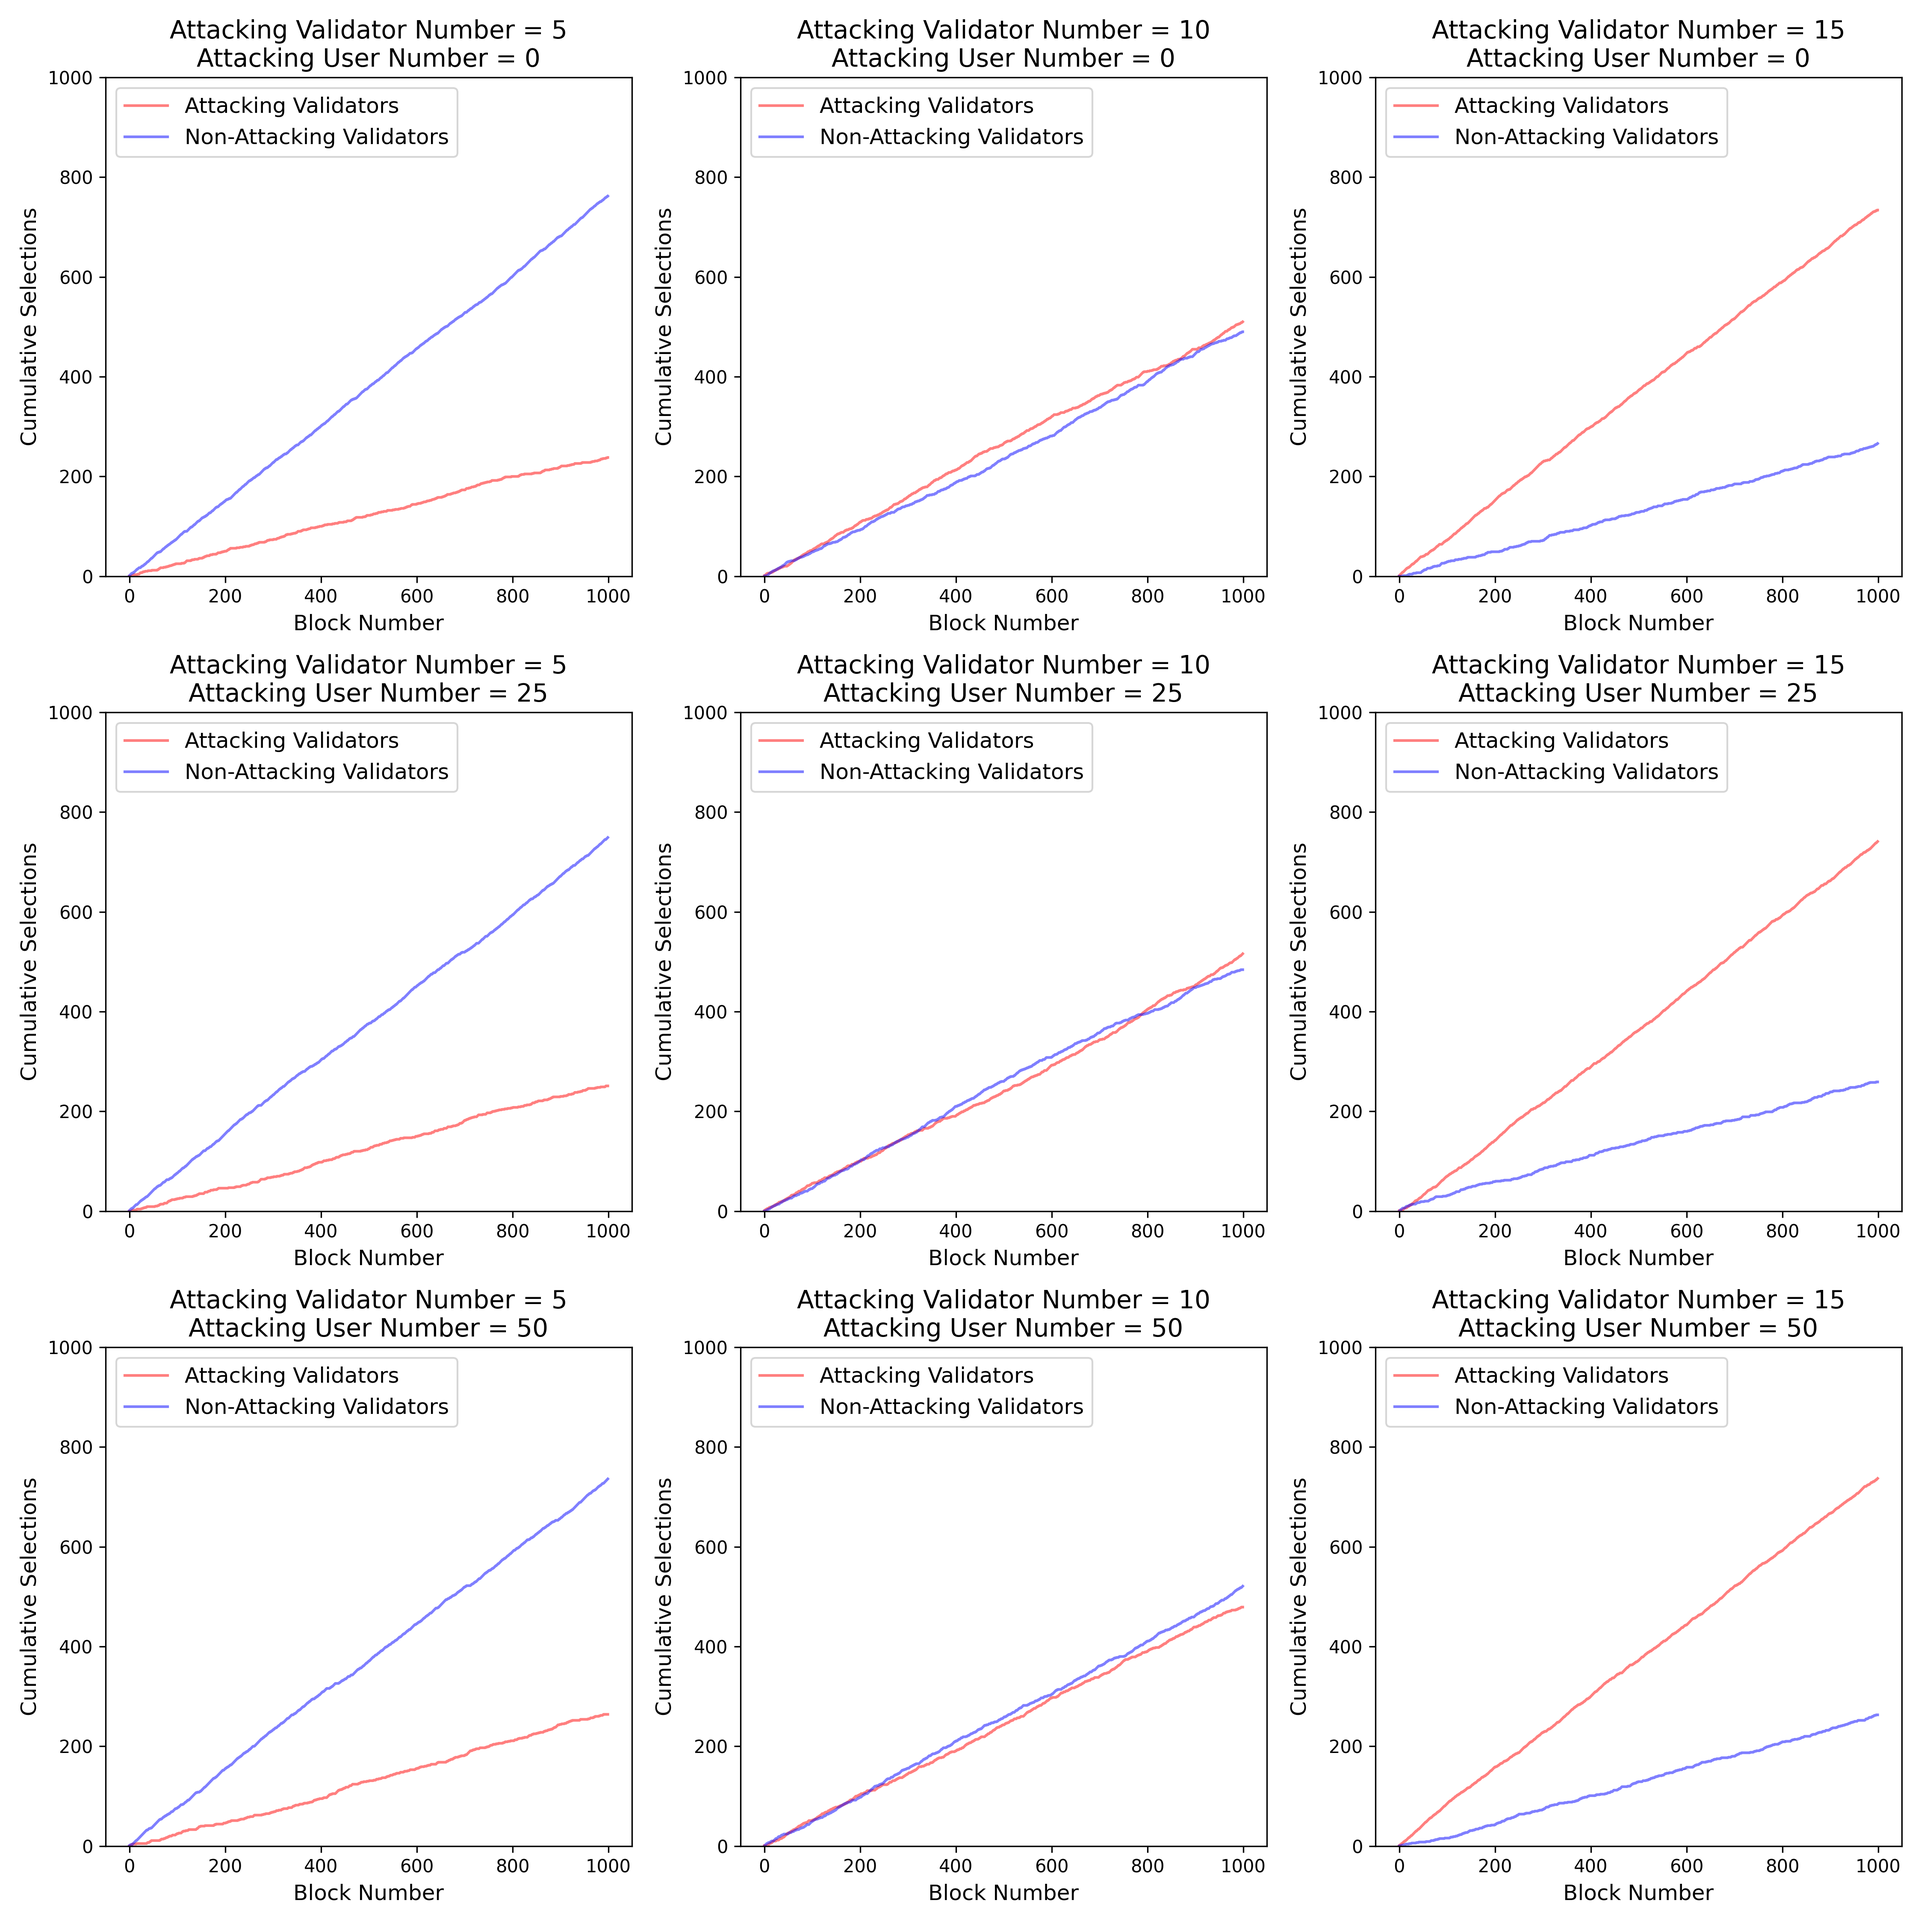
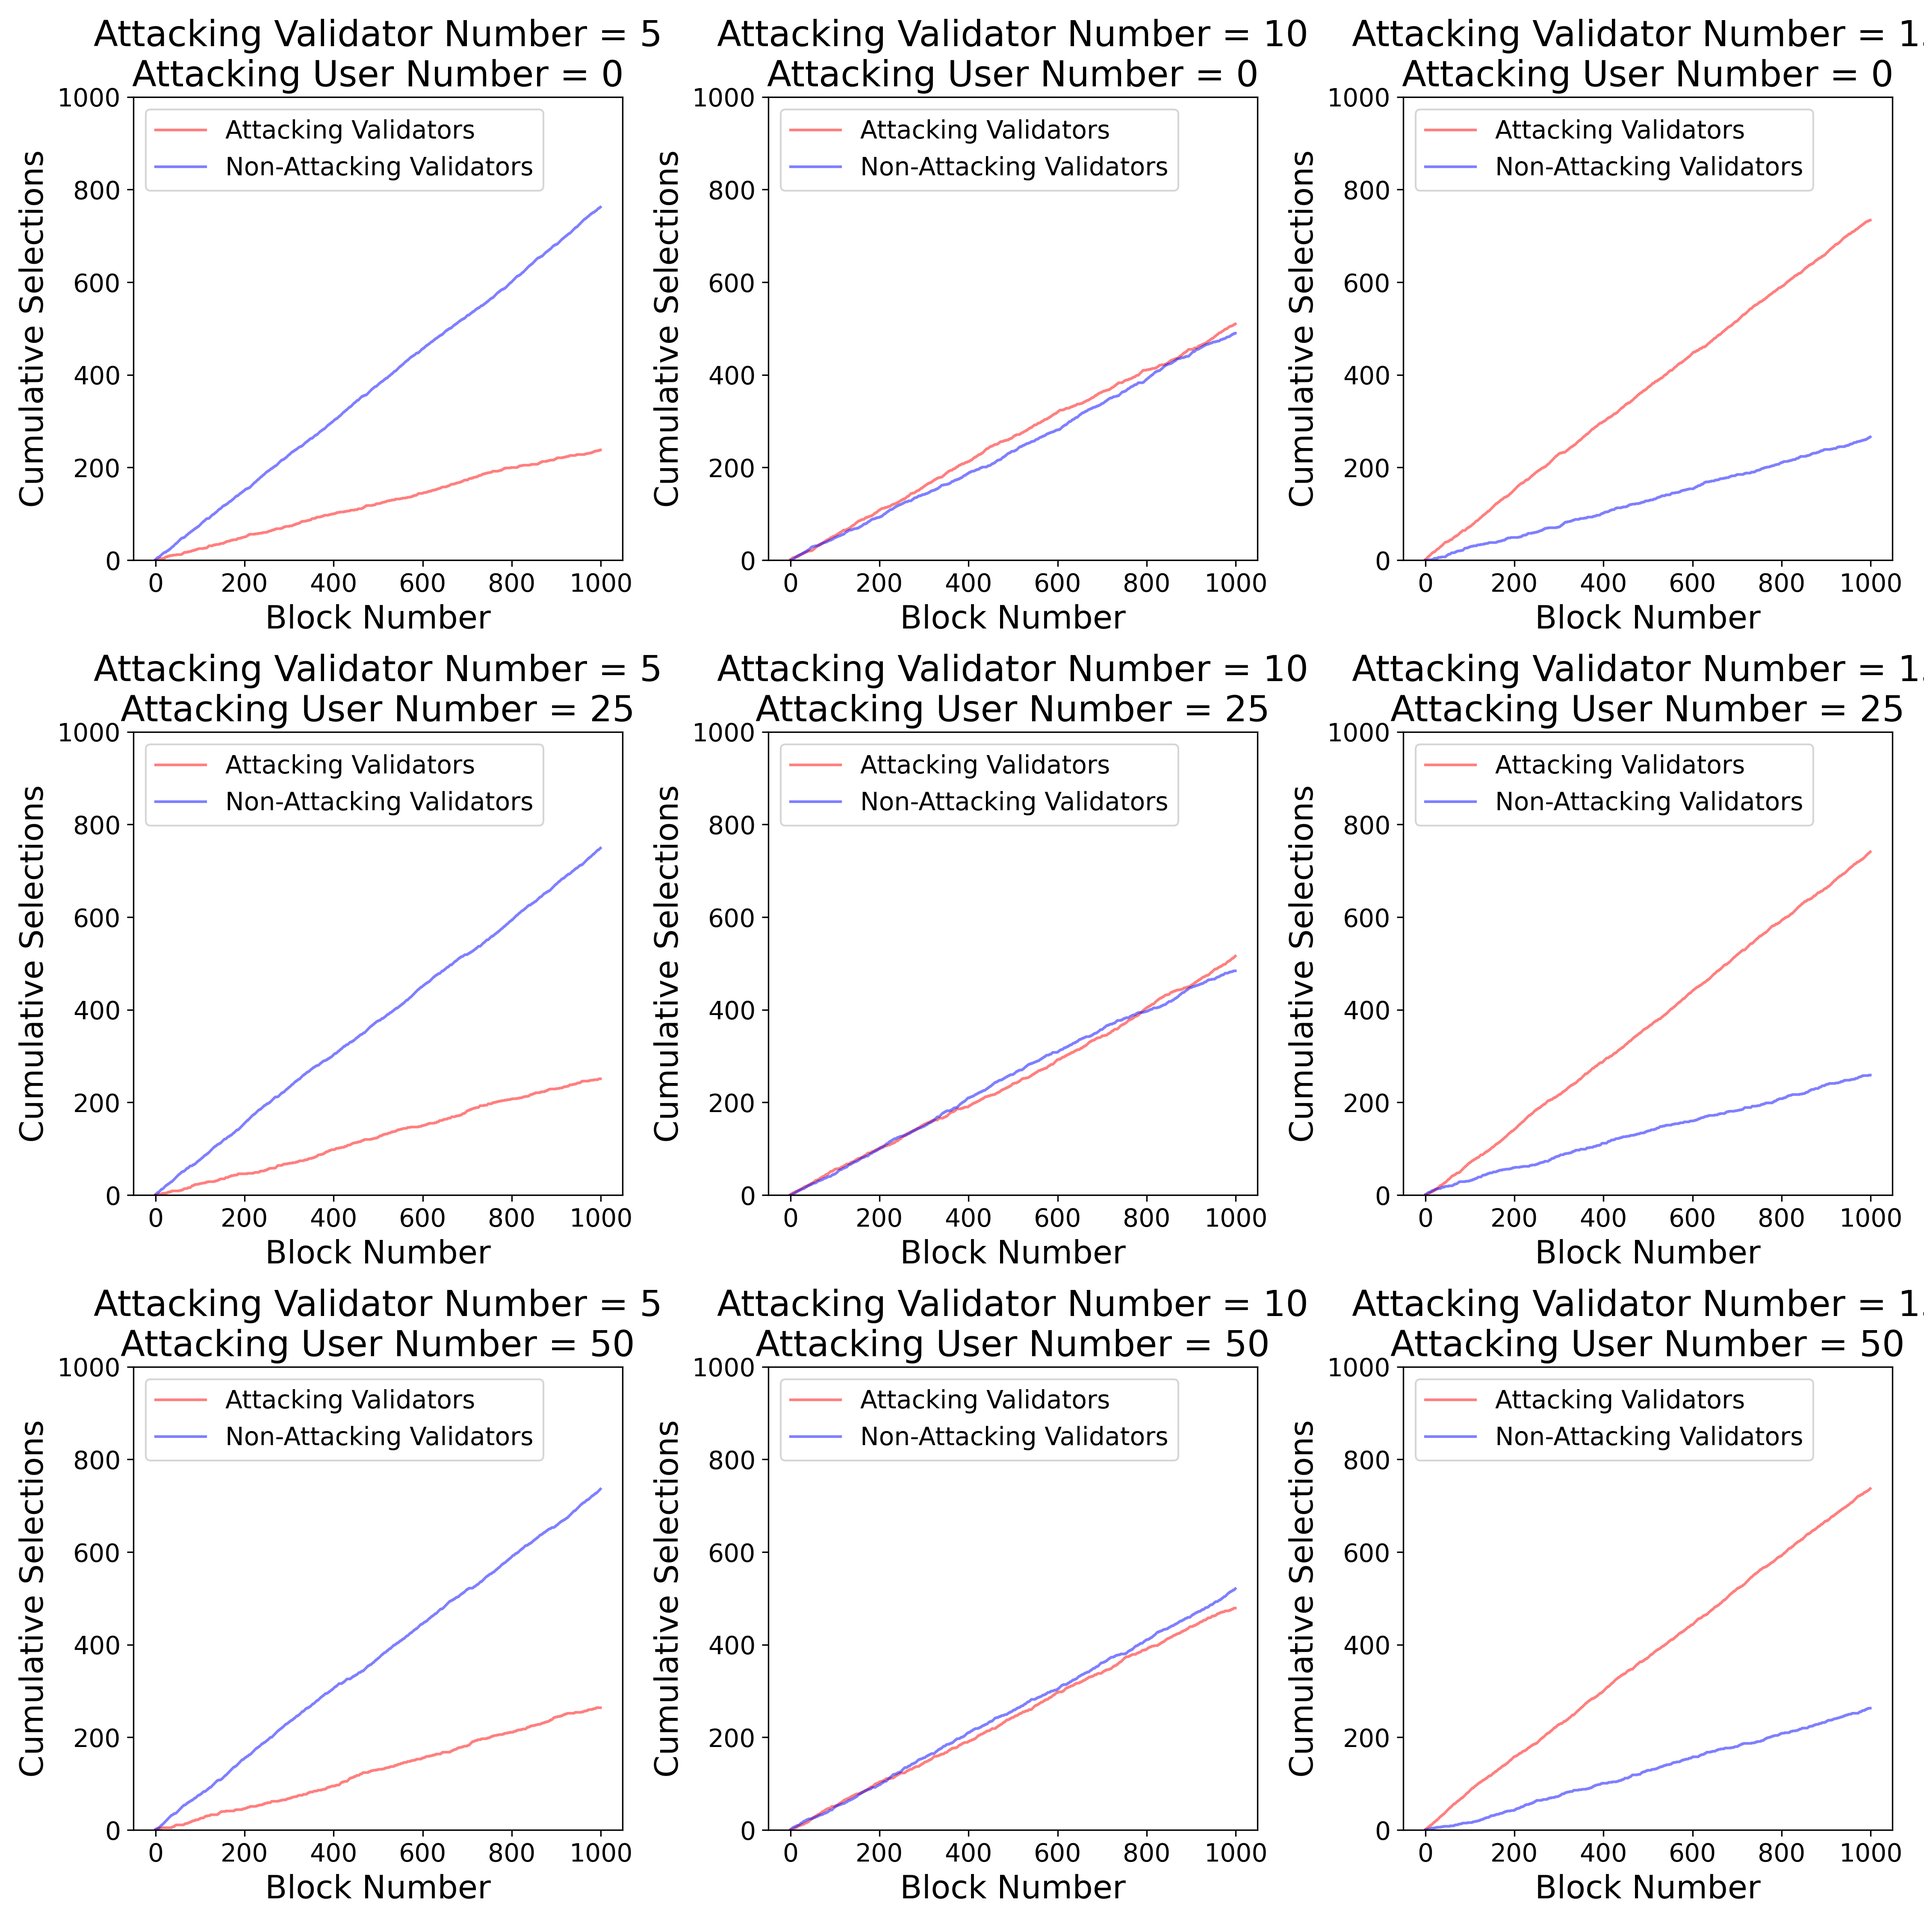
font size

diff --git a/plots/ss/pos_selection_3*3.py b/plots/ss/pos_selection_3*3.py
@@ -64,7 +64,12 @@ def plot_cumulative_selections_over_blocks(data_folder, configs):
     # Set up the 3x3 grid
     fig, axes = plt.subplots(3, 3, figsize=(15, 15))
     y_limit = 1000  # Set common y-axis limit for consistency across plots
-    font_size = 12  # Set the font size for titles, labels, and legend
+
+    # Updated font sizes for better readability
+    title_font_size = 20  # Larger font for titles
+    label_font_size = 18  # Larger font for axis labels
+    legend_font_size = 14  # Larger font for legend
+    tick_label_font_size = 14  # Larger font for axis tick labels
 
     for i, (validator_attack_count, user_attack_count) in enumerate(configs):
         filename = f"pos_block_data_validators{validator_attack_count}_users{user_attack_count}.csv"
@@ -83,11 +88,14 @@ def plot_cumulative_selections_over_blocks(data_folder, configs):
         # Plot cumulative selections
         ax.plot(block_numbers, np.cumsum(attacking_counts), label='Attacking Validators', color='red', alpha=0.5)
         ax.plot(block_numbers, np.cumsum(non_attacking_counts), label='Non-Attacking Validators', color='blue', alpha=0.5)
-        ax.set_xlabel('Block Number', fontsize=font_size)
-        ax.set_ylabel('Cumulative Selections', fontsize=font_size)
-        ax.set_title(f'Attacking Validator Number = {validator_attack_count}\nAttacking User Number = {user_attack_count}', fontsize=font_size + 2)
+        ax.set_xlabel('Block Number', fontsize=label_font_size)
+        ax.set_ylabel('Cumulative Selections', fontsize=label_font_size)
+        ax.set_title(f'Attacking Validator Number = {validator_attack_count}\nAttacking User Number = {user_attack_count}', fontsize=title_font_size)
         ax.set_ylim(0, y_limit)
-        ax.legend(loc='upper left', fontsize=font_size)
+        ax.legend(loc='upper left', fontsize=legend_font_size)
+        
+        # Set tick label font size for both x and y axes
+        ax.tick_params(axis='both', labelsize=tick_label_font_size)
 
     plt.tight_layout()
     output_path = os.path.join(output_dir, 'pos_cumulative_selection_3x3_grid.png')
